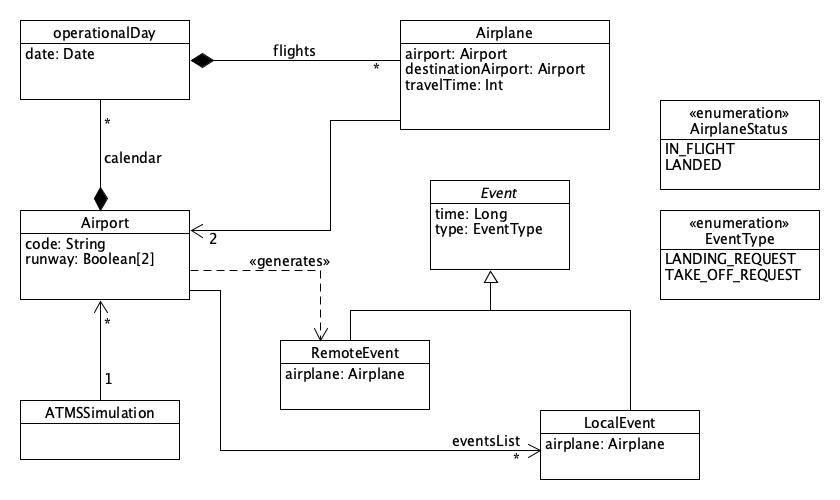
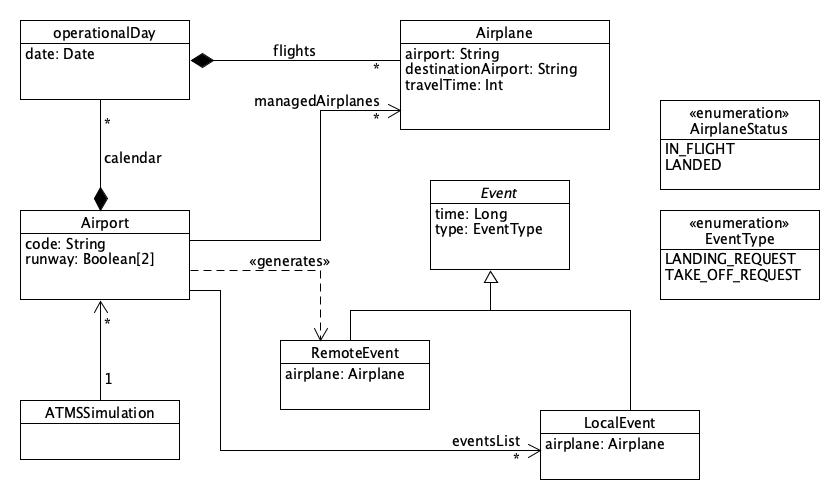
Prima bozza documentazione

diff --git a/README.md b/README.md
@@ -194,8 +194,11 @@ accordo con l'**OMT** (Object Model Template), producendo un **FOM** (Federation
 |DateArray|HLAbyte|2|HLAfixedArray|
 
 ## Data Types Table - Fixed Record Data Type
-|<td rowspan=2>Record name</td>|<td colspan=3>Field</td>|||<td rowspan=2>Encoding</td>|<td rowspan=2>Semantics</td>|
-||Name|Type|Semantics|||
+|Record name|Name|Type|Semantics|Encoding|Semantics|
 |----|----|----|----|----|----|
-|FlightScheduledRecord|||||
+|AirplaneRecord|airport|HLAunicodeString|Codice dell'aeroporto di partenza|HLAfixedRecord|Rappresentazione HLA di un aereo|
+||destinationAirport|HLAunicodeString|Codice dell'aeroporto di destinazione|||
+||travelTime|HLAinteger16BE|Tempo di volo|||
+|FlightScheduledRecord|time|HLAinteger64Time|Minuto in cui è schedulato il volo|HLAfixedRecord|Tempo e aereo schedulato in un operational day|
+||airplane|Airplane|Aereo schedulato|||
     
